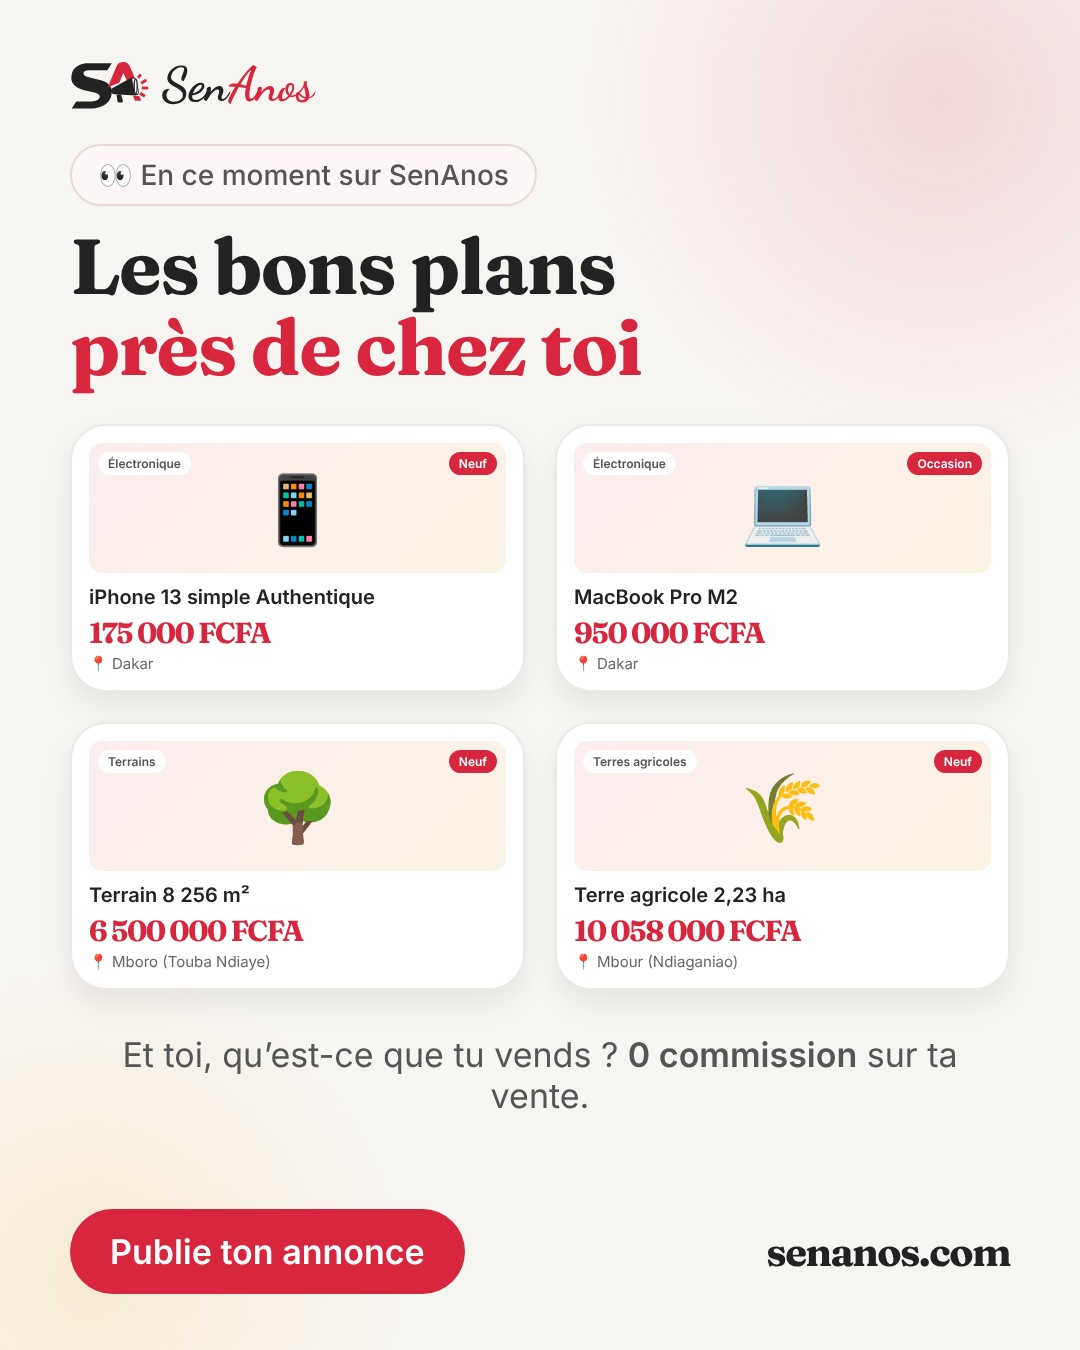
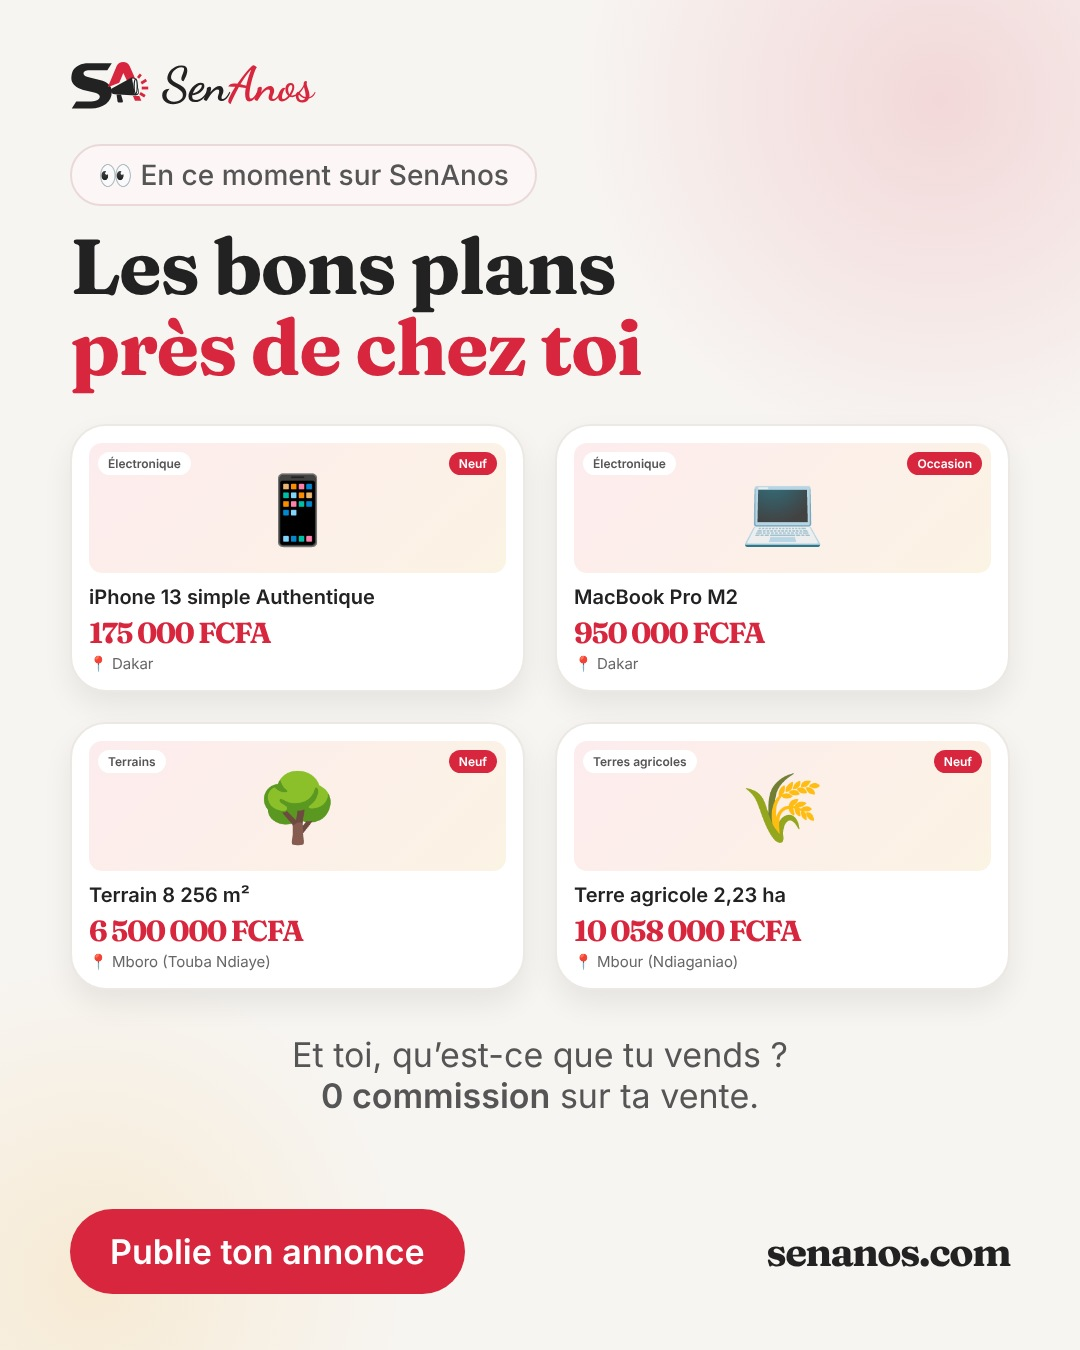
Bons plans 15/11 : retour à la ligne

Changed region(s): [[0.1528, 0.7778, 0.8861, 0.84]]

diff --git a/sources/posts_bonsplans_15nov.py b/sources/posts_bonsplans_15nov.py
@@ -12,6 +12,6 @@ p=f'''<div class="glow" style="width:800px;height:800px;right:-260px;top:-300px"
 <div class="pill" style="align-self:flex-start;margin-top:34px">👀 En ce moment sur SenAnos</div>
 <div class="fr" style="font-size:78px;line-height:1.04;margin-top:20px">Les bons plans<br><span class="red">près de chez toi</span></div>
 <div style="display:flex;flex-wrap:wrap;gap:30px;margin-top:36px">{cards}</div>
-<div style="font-size:34px;color:#555;margin-top:44px;text-align:center">Et toi, qu’est-ce que tu vends ? <b>0 commission</b> sur ta vente.</div>
+<div style="font-size:34px;color:#555;margin-top:44px;text-align:center">Et toi, qu’est-ce que tu vends ?<br><b>0 commission</b> sur ta vente.</div>
 <div style="margin-top:auto;display:flex;align-items:center;justify-content:space-between"><span class="cta" style="font-size:34px;padding:22px 40px">Publie ton annonce</span><span class="fr" style="font-size:40px">senanos.com</span></div></div>'''
 shoot_pages([p],W,H,'bp')
